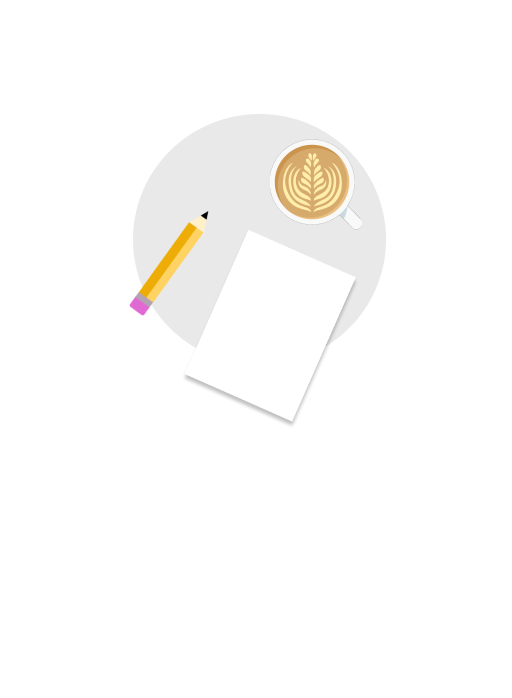
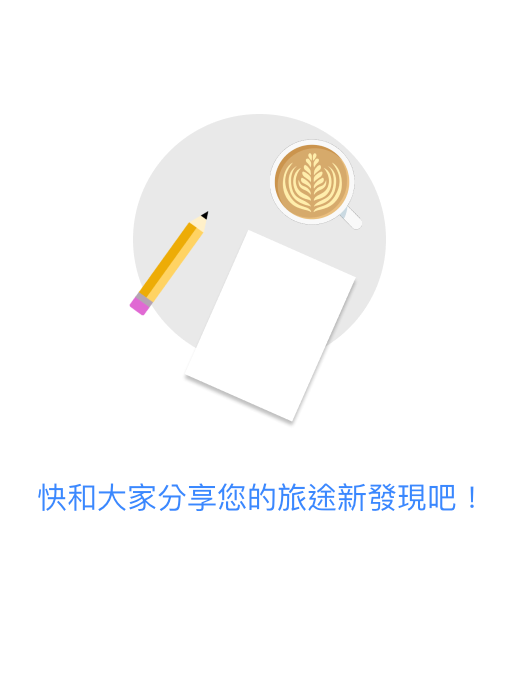
change to emptyview2 in newMypageViewController

Changed region(s): [[0.0625, 0.692, 0.9375, 0.7521]]

diff --git a/MaPle/Mypage/newMyPageCollectionViewController.swift b/MaPle/Mypage/newMyPageCollectionViewController.swift
@@ -75,6 +75,7 @@ class newMyPageCollectionViewController: UICollectionViewController {
         }
         let cancel = UIAlertAction(title: "取消", style: .default, handler: nil)
         alert.addAction(ok)
+        alert.addAction(cancel)
         present(alert,animated: true)
        
     }
@@ -357,7 +358,7 @@ class newMyPageCollectionViewController: UICollectionViewController {
                     finalfooterView.frame.size = CGSize(width: screensize.width, height: screensize.height*0.55)
                     finalfooterView.imageView.contentMode = .scaleToFill
                     DispatchQueue.main.async {
-                        finalfooterView.imageView.image = UIImage(named:"emptyview.png")
+                        finalfooterView.imageView.image = UIImage(named:"emptyview2.png")
                         finalfooterView.imageView.isHidden = false
 
                     }
